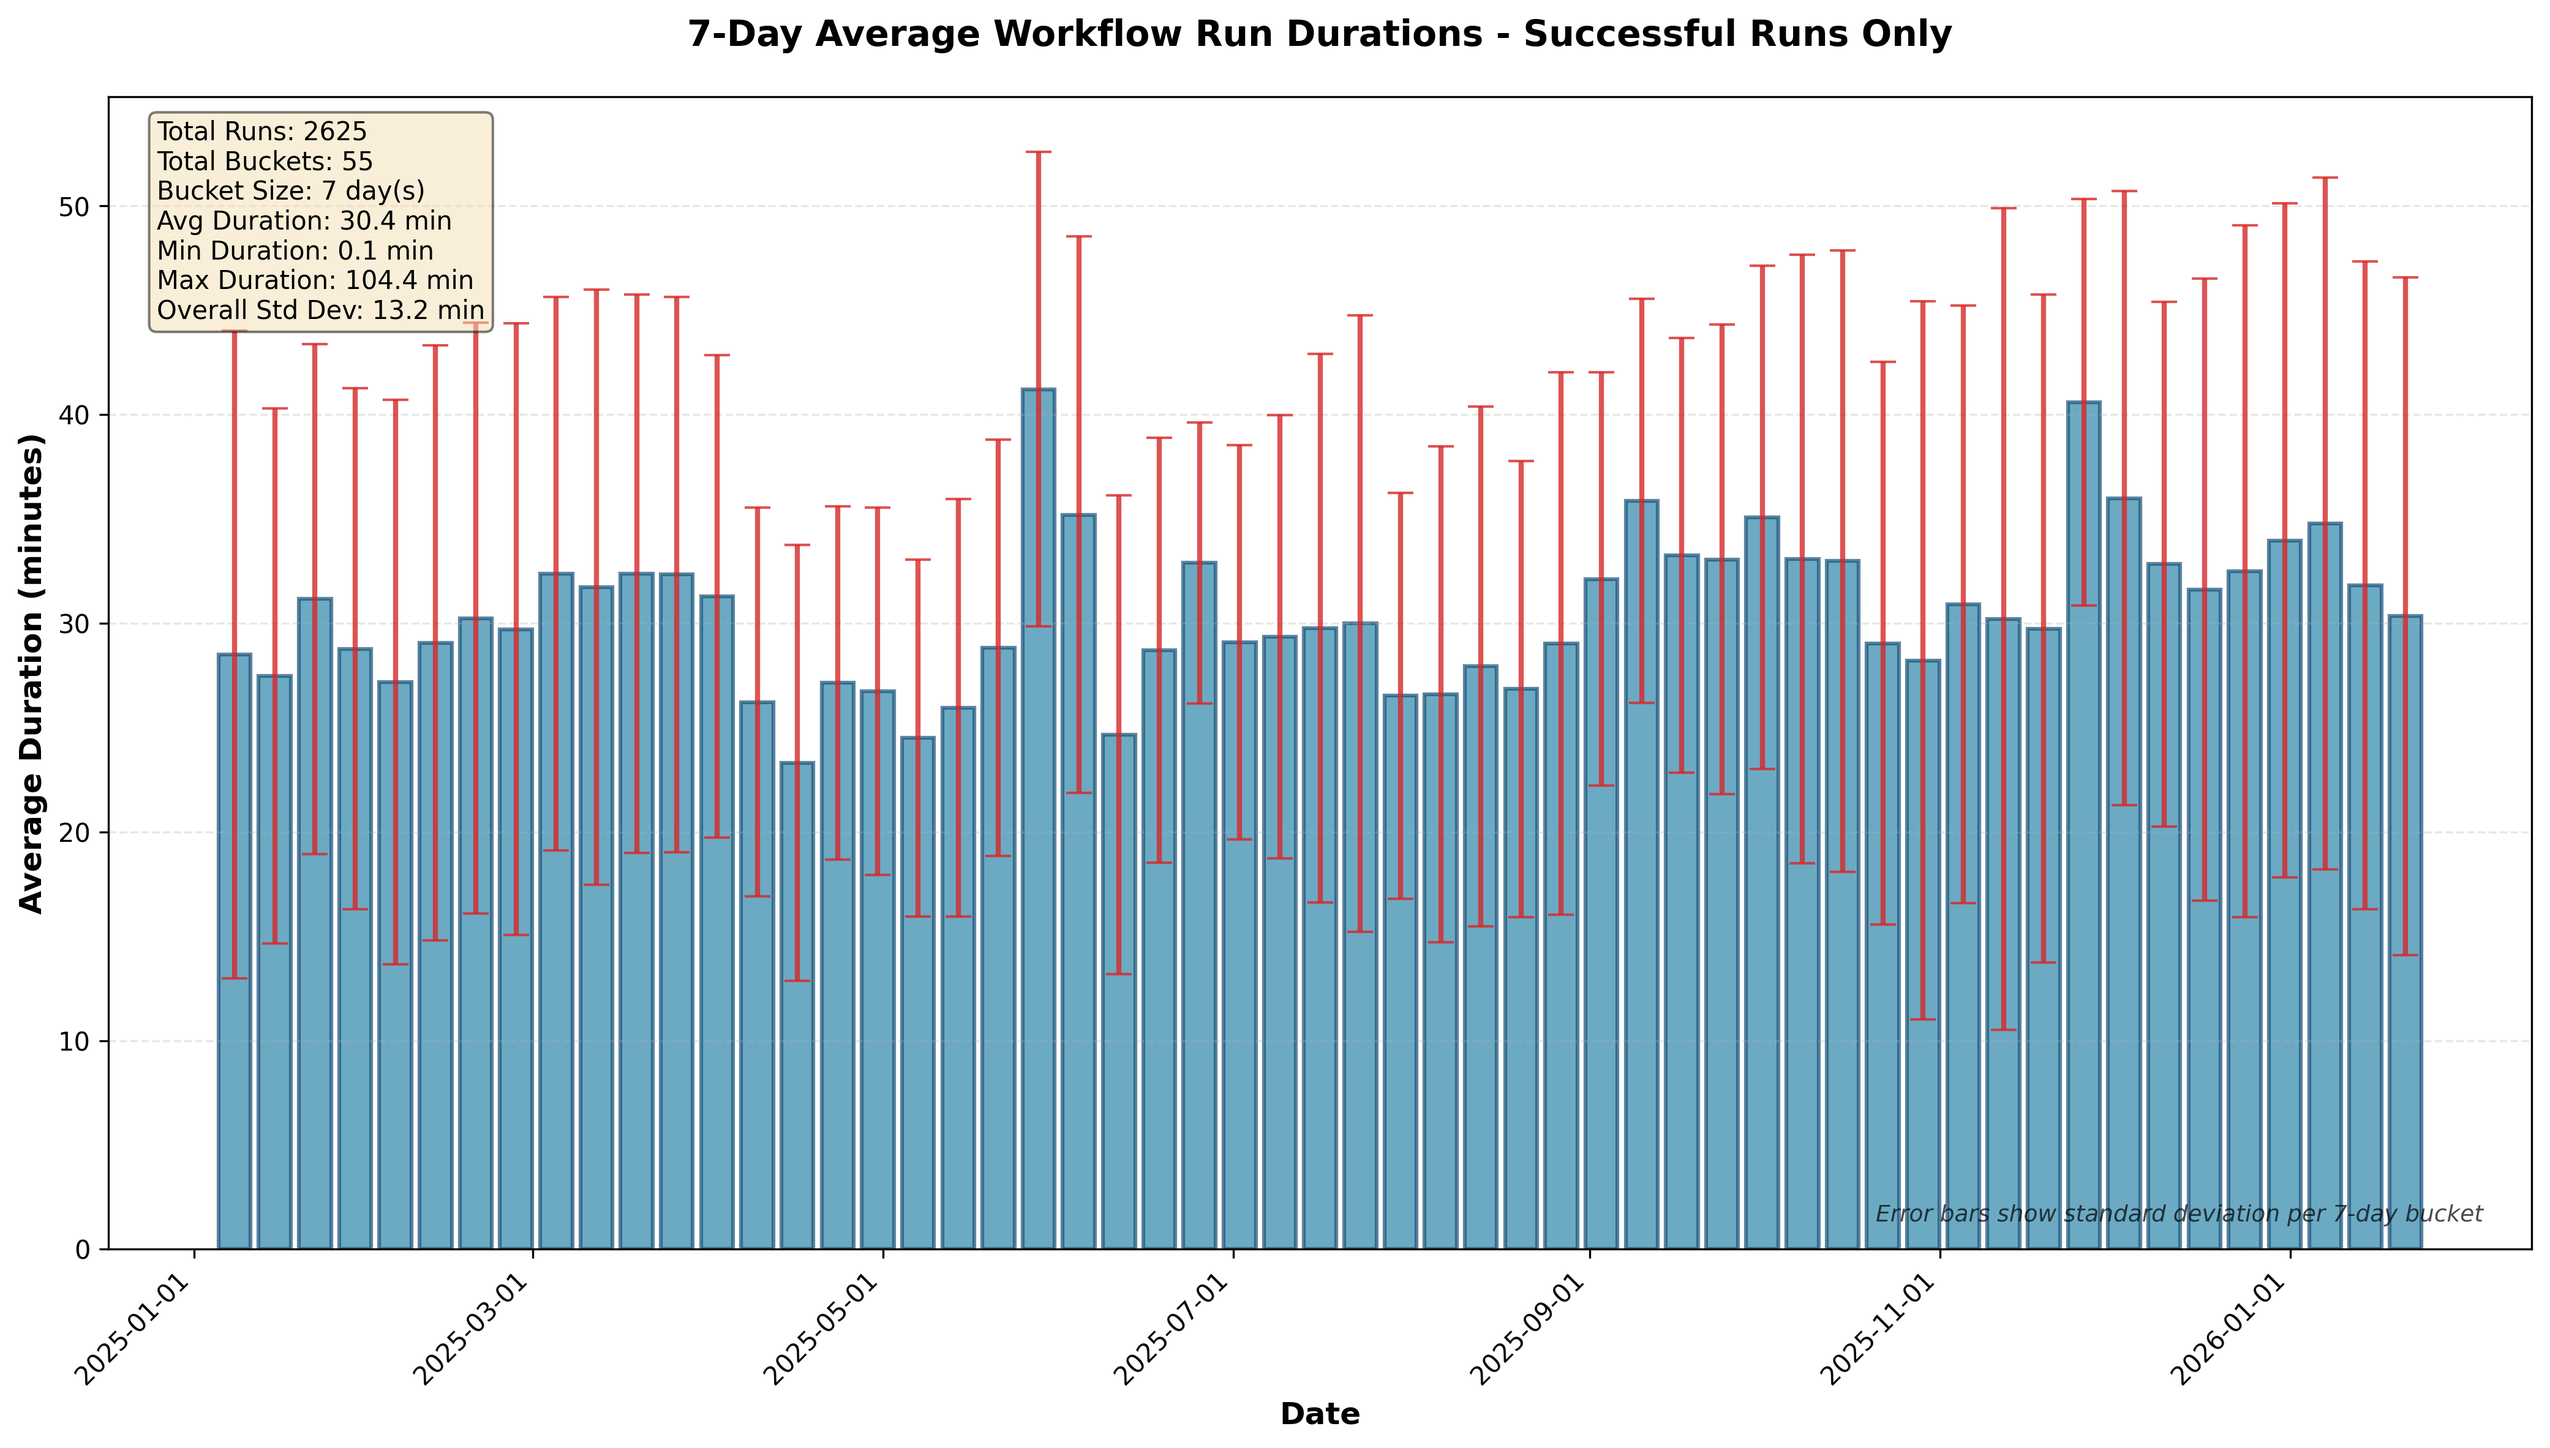
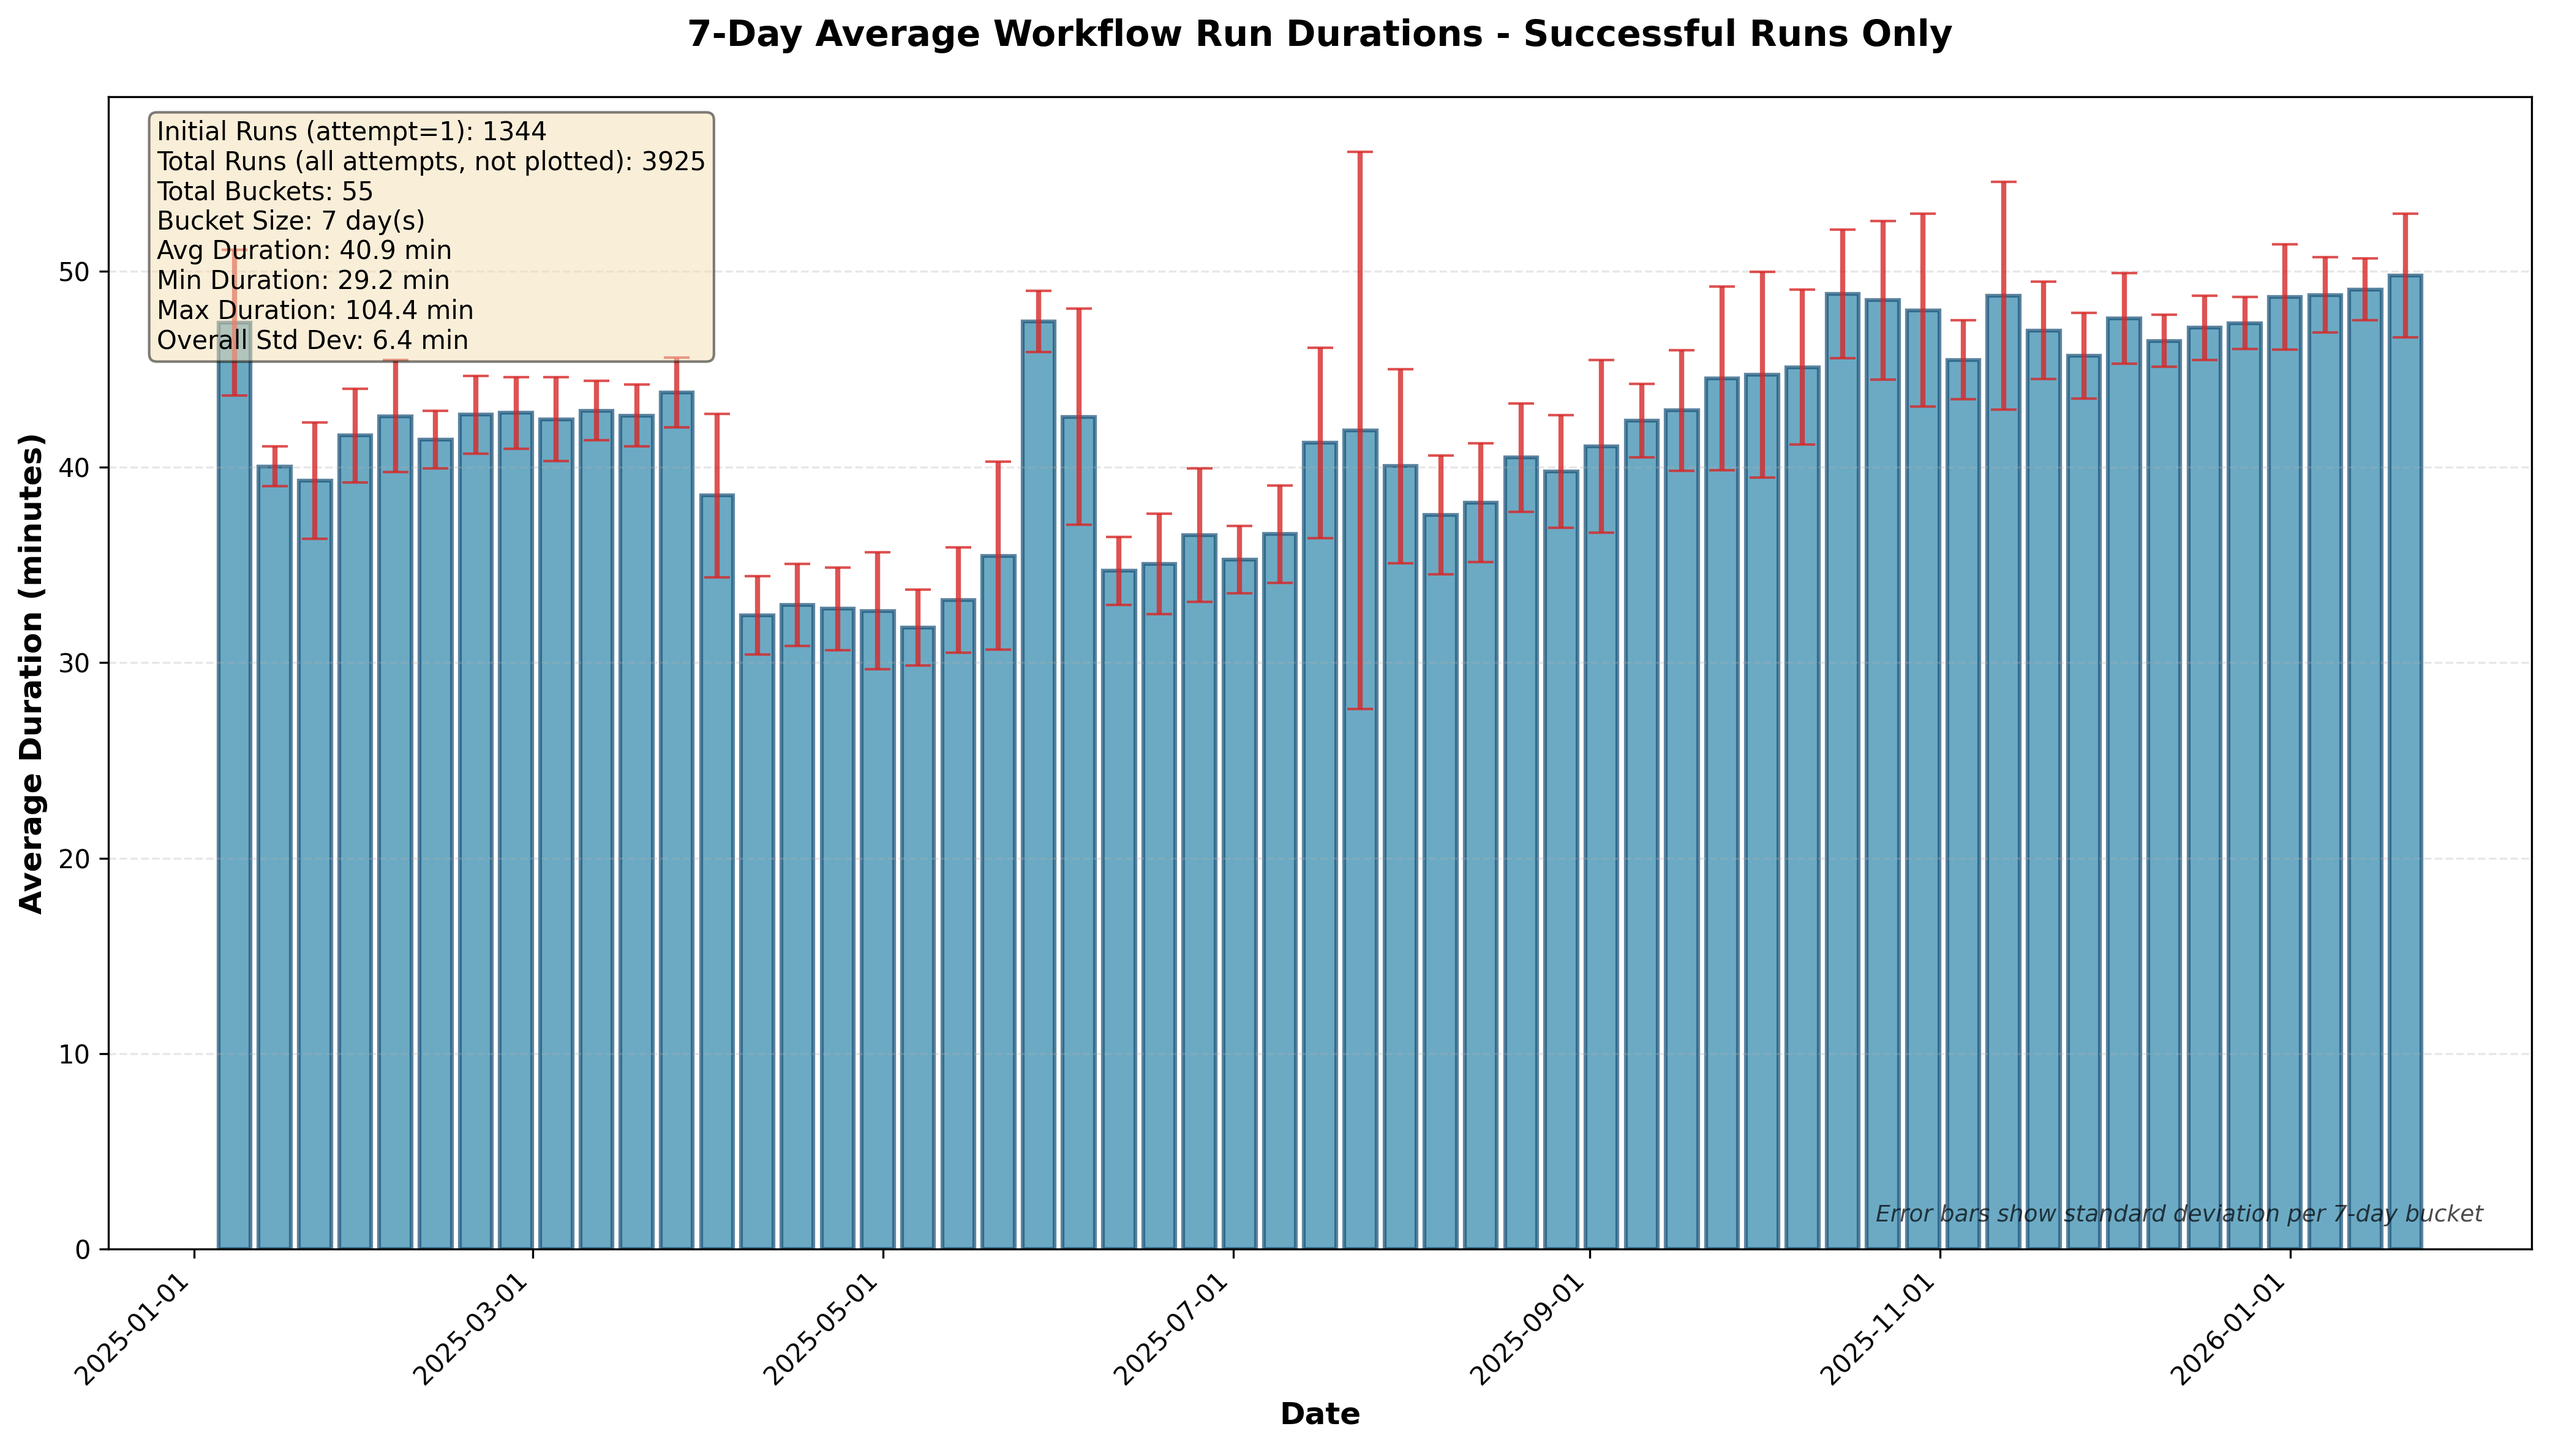
show total number of runs

Changed region(s): [[0.0624, 0.0617, 0.9678, 0.6791]]

diff --git a/main.py b/main.py
@@ -37,9 +37,14 @@ def load_workflow_stats(filepaths: list[str]) -> list[dict]:
     return data_list
 
 
-def extract_successful_runs(data_list: list[dict]) -> list[dict]:
-    """Extract all successful workflow runs from one or more data files."""
+def extract_successful_runs(data_list: list[dict]) -> tuple[list[dict], int]:
+    """Extract all successful workflow runs from one or more data files.
+
+    Returns:
+        tuple: (list of runs with run_attempt==1, total count of all runs including retries)
+    """
     all_runs = []
+    total_runs_count = 0
 
     for data in data_list:
         # Navigate to the success section
@@ -55,6 +60,19 @@ def extract_successful_runs(data_list: list[dict]) -> list[dict]:
             # Extract the date from run_started_at
             run_started_at = run.get('run_started_at')
             duration = run.get('duration')
+
+            # Exlcude very fast runs.
+            if int(duration) < 2*60:
+                continue
+
+            # Count this run in the total
+            total_runs_count += 1
+
+            # To get comparable timings we nly pick the run attempt 1. This means we only pick runs that passed without
+            # retry, and due to the flakyness of CI this reduces the number of runs we use for stats by about half.
+            run_attempt = run.get('run_attempt')
+            if run_attempt != 1:
+                continue
 
             if run_started_at and duration is not None:
                 all_runs.append({
@@ -72,14 +90,15 @@ def extract_successful_runs(data_list: list[dict]) -> list[dict]:
             seen_ids.add(run['id'])
             unique_runs.append(run)
 
-    return unique_runs
+    return unique_runs, total_runs_count
 
 
-def plot_durations(runs: list[dict], output_file: str = "workflow_durations.png", bucket_days: int = 1):
+def plot_durations(runs: list[dict], total_runs: int, output_file: str = "workflow_durations.png", bucket_days: int = 1):
     """Plot the workflow durations by date.
 
     Args:
-        runs: List of workflow run data
+        runs: List of workflow run data (run_attempt==1 only)
+        total_runs: Total number of runs including retries
         output_file: Output filename for the plot
         bucket_days: Number of days to group data by (default: 1 for daily)
     """
@@ -143,8 +162,8 @@ def plot_durations(runs: list[dict], output_file: str = "workflow_durations.png"
     plt.grid(True, alpha=0.3, linestyle='--', axis='y')
 
     # Add statistics as text
-    stats_text = f"Total Runs: {len(df)}\n"
-    stats_text += f"Total Buckets: {len(bucket_stats)}\n"
+    stats_text = f"Initial Runs (attempt=1): {len(df)}\n"
+    stats_text += f"Total Runs (all attempts, not plotted): {total_runs}\n"
     stats_text += f"Bucket Size: {bucket_days} day(s)\n"
     stats_text += f"Avg Duration: {df['duration_minutes'].mean():.1f} min\n"
     stats_text += f"Min Duration: {df['duration_minutes'].min():.1f} min\n"
@@ -170,7 +189,10 @@ def plot_durations(runs: list[dict], output_file: str = "workflow_durations.png"
 
     # Show summary statistics
     print("\n=== Summary Statistics ===")
-    print(f"Total successful runs: {len(df)}")
+    print(f"Initial runs (attempt=1): {len(df)}")
+    print(f"Total runs (all attempts): {total_runs}")
+    retry_rate = ((total_runs - len(df)) / total_runs * 100) if total_runs > 0 else 0
+    print(f"Retry rate: {retry_rate:.1f}%")
     print(f"Date range: {df['date'].min().strftime('%Y-%m-%d')} to {df['date'].max().strftime('%Y-%m-%d')}")
     print(f"Average duration: {df['duration_minutes'].mean():.2f} minutes")
     print(f"Median duration: {df['duration_minutes'].median():.2f} minutes")
@@ -212,15 +234,16 @@ def main():
     data_list = load_workflow_stats(args.input_files)
 
     print("Extracting successful runs...")
-    runs = extract_successful_runs(data_list)
+    runs, total_runs = extract_successful_runs(data_list)
 
-    print(f"Found {len(runs)} successful runs (after deduplication)")
+    print(f"Found {len(runs)} initial runs (run_attempt=1, after deduplication)")
+    print(f"Total runs including retries: {total_runs}")
 
     if runs:
         print("Creating plot...")
         if args.bucket_days != 1:
             print(f"Grouping data into {args.bucket_days}-day buckets...")
-        plot_durations(runs, args.output, args.bucket_days)
+        plot_durations(runs, total_runs, args.output, args.bucket_days)
     else:
         print("No successful runs to plot!", file=sys.stderr)
         sys.exit(1)
